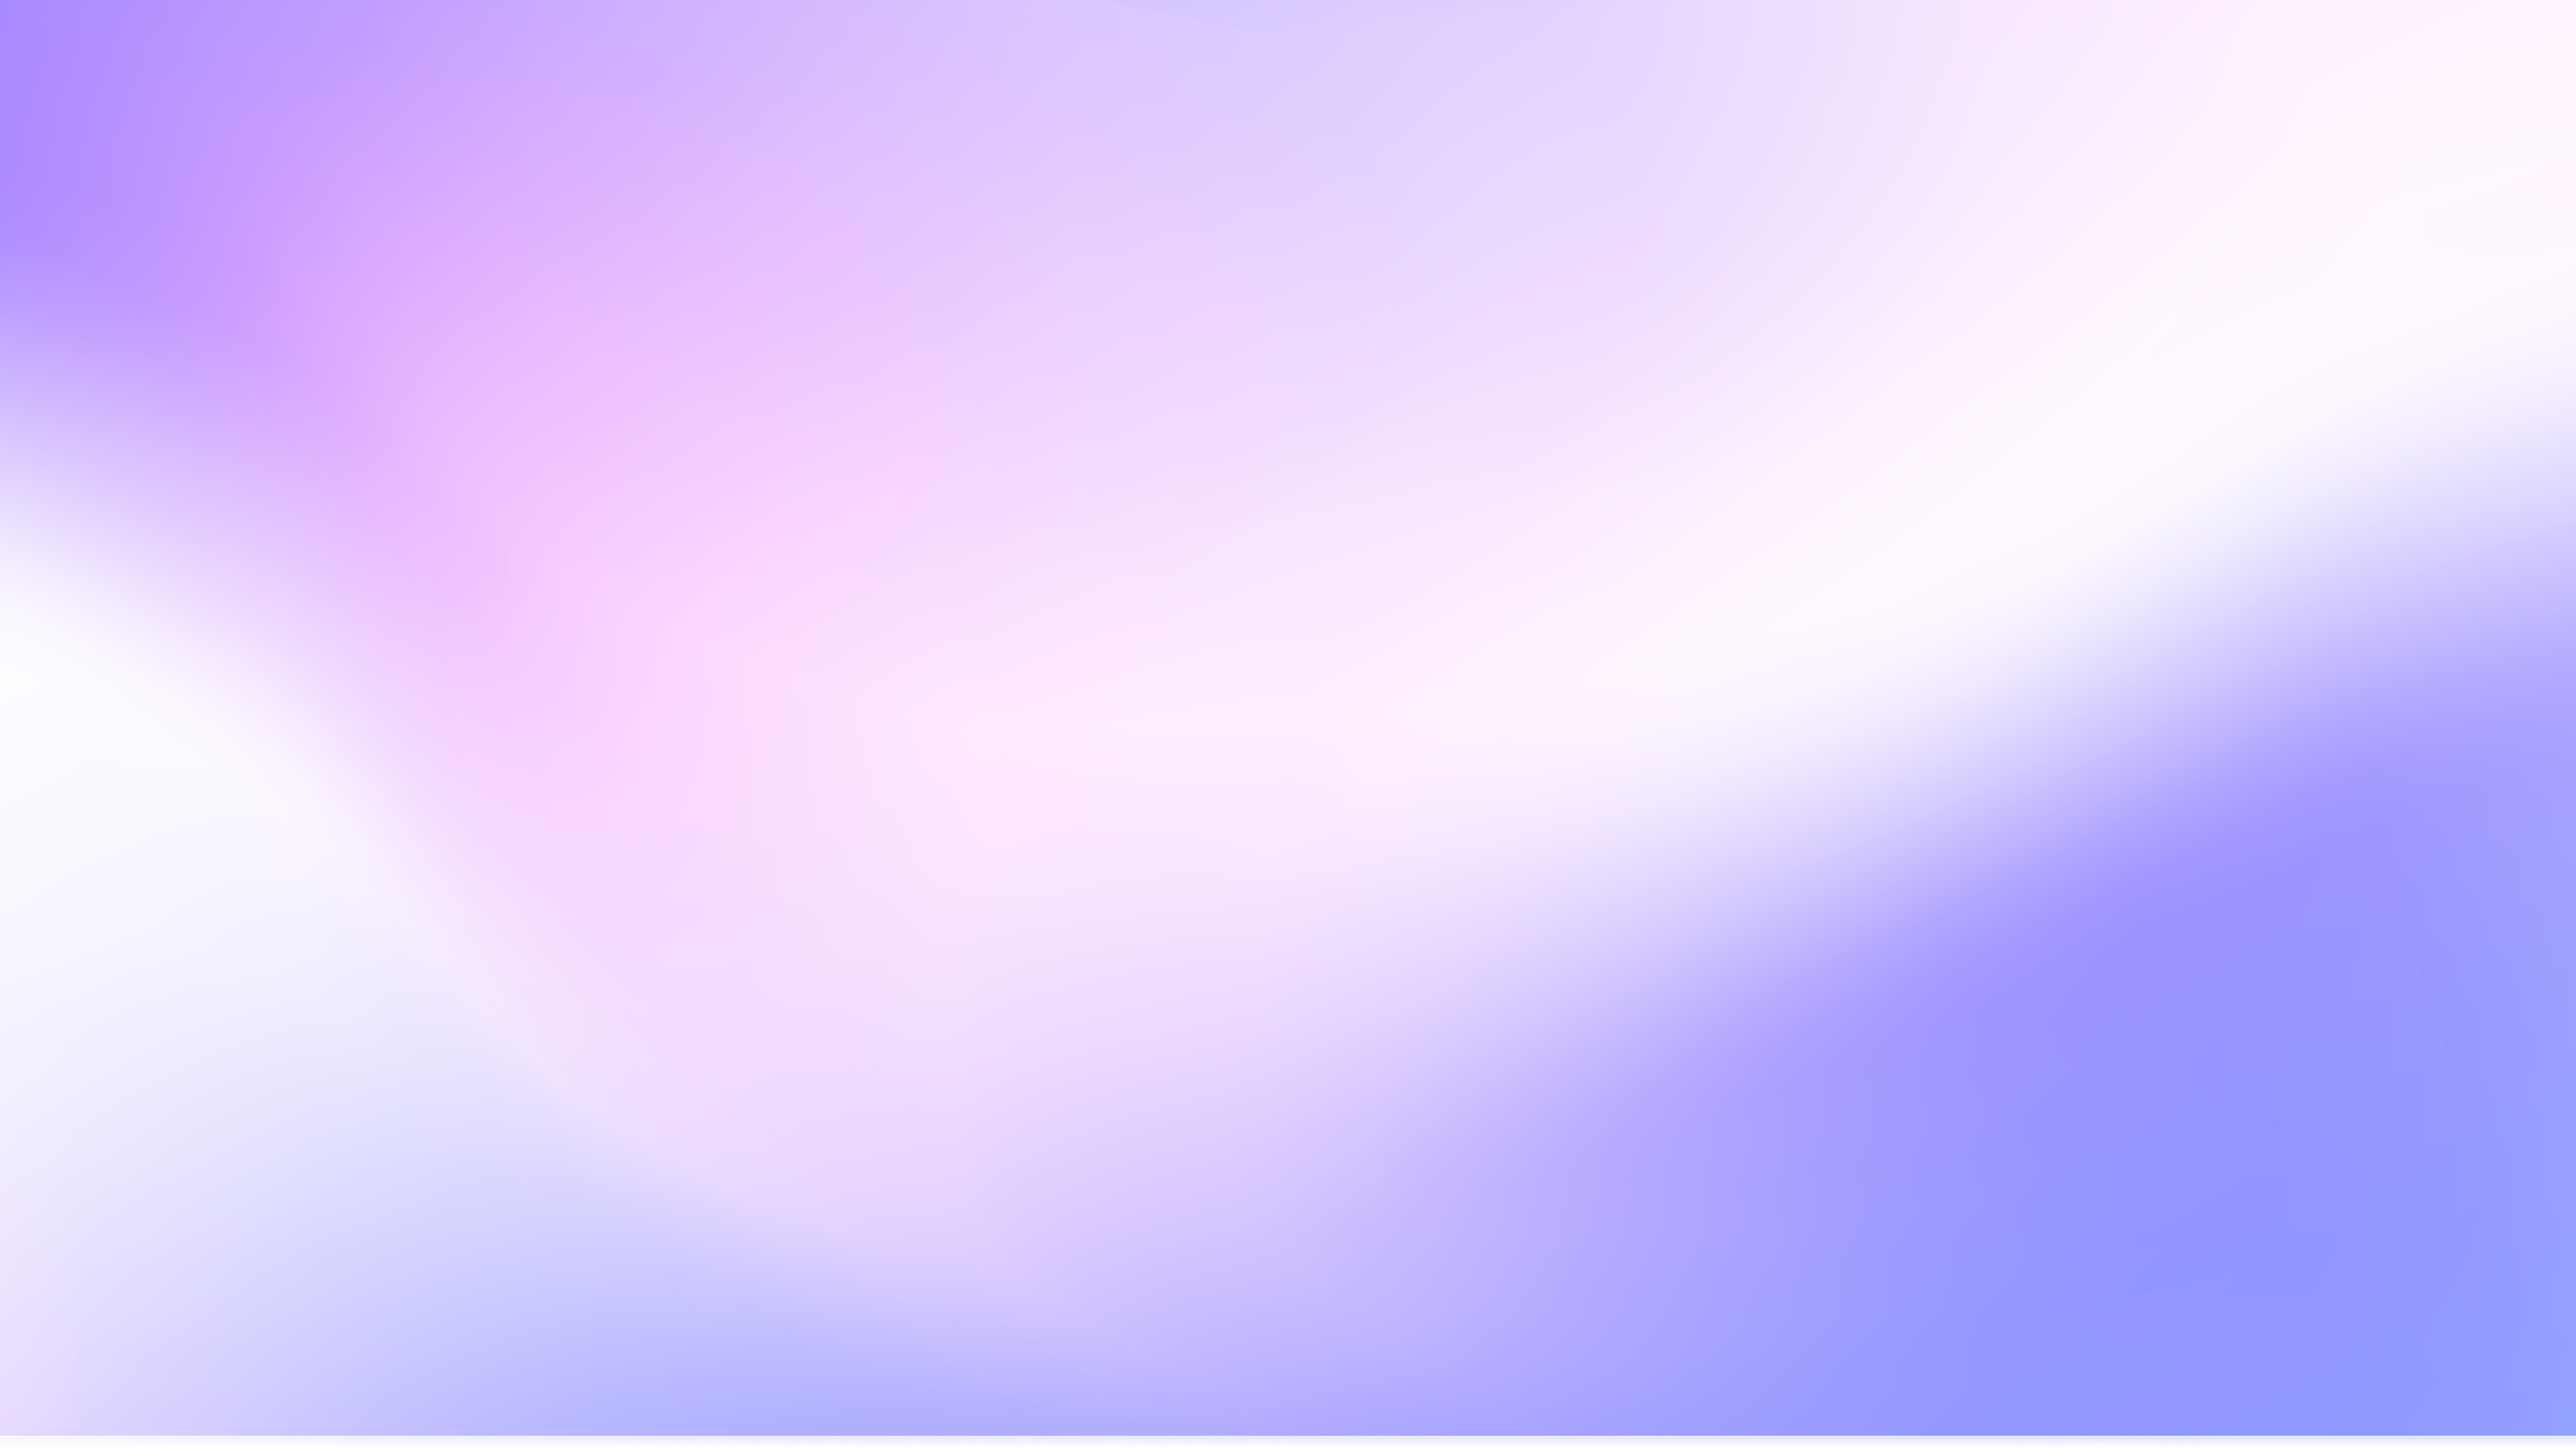
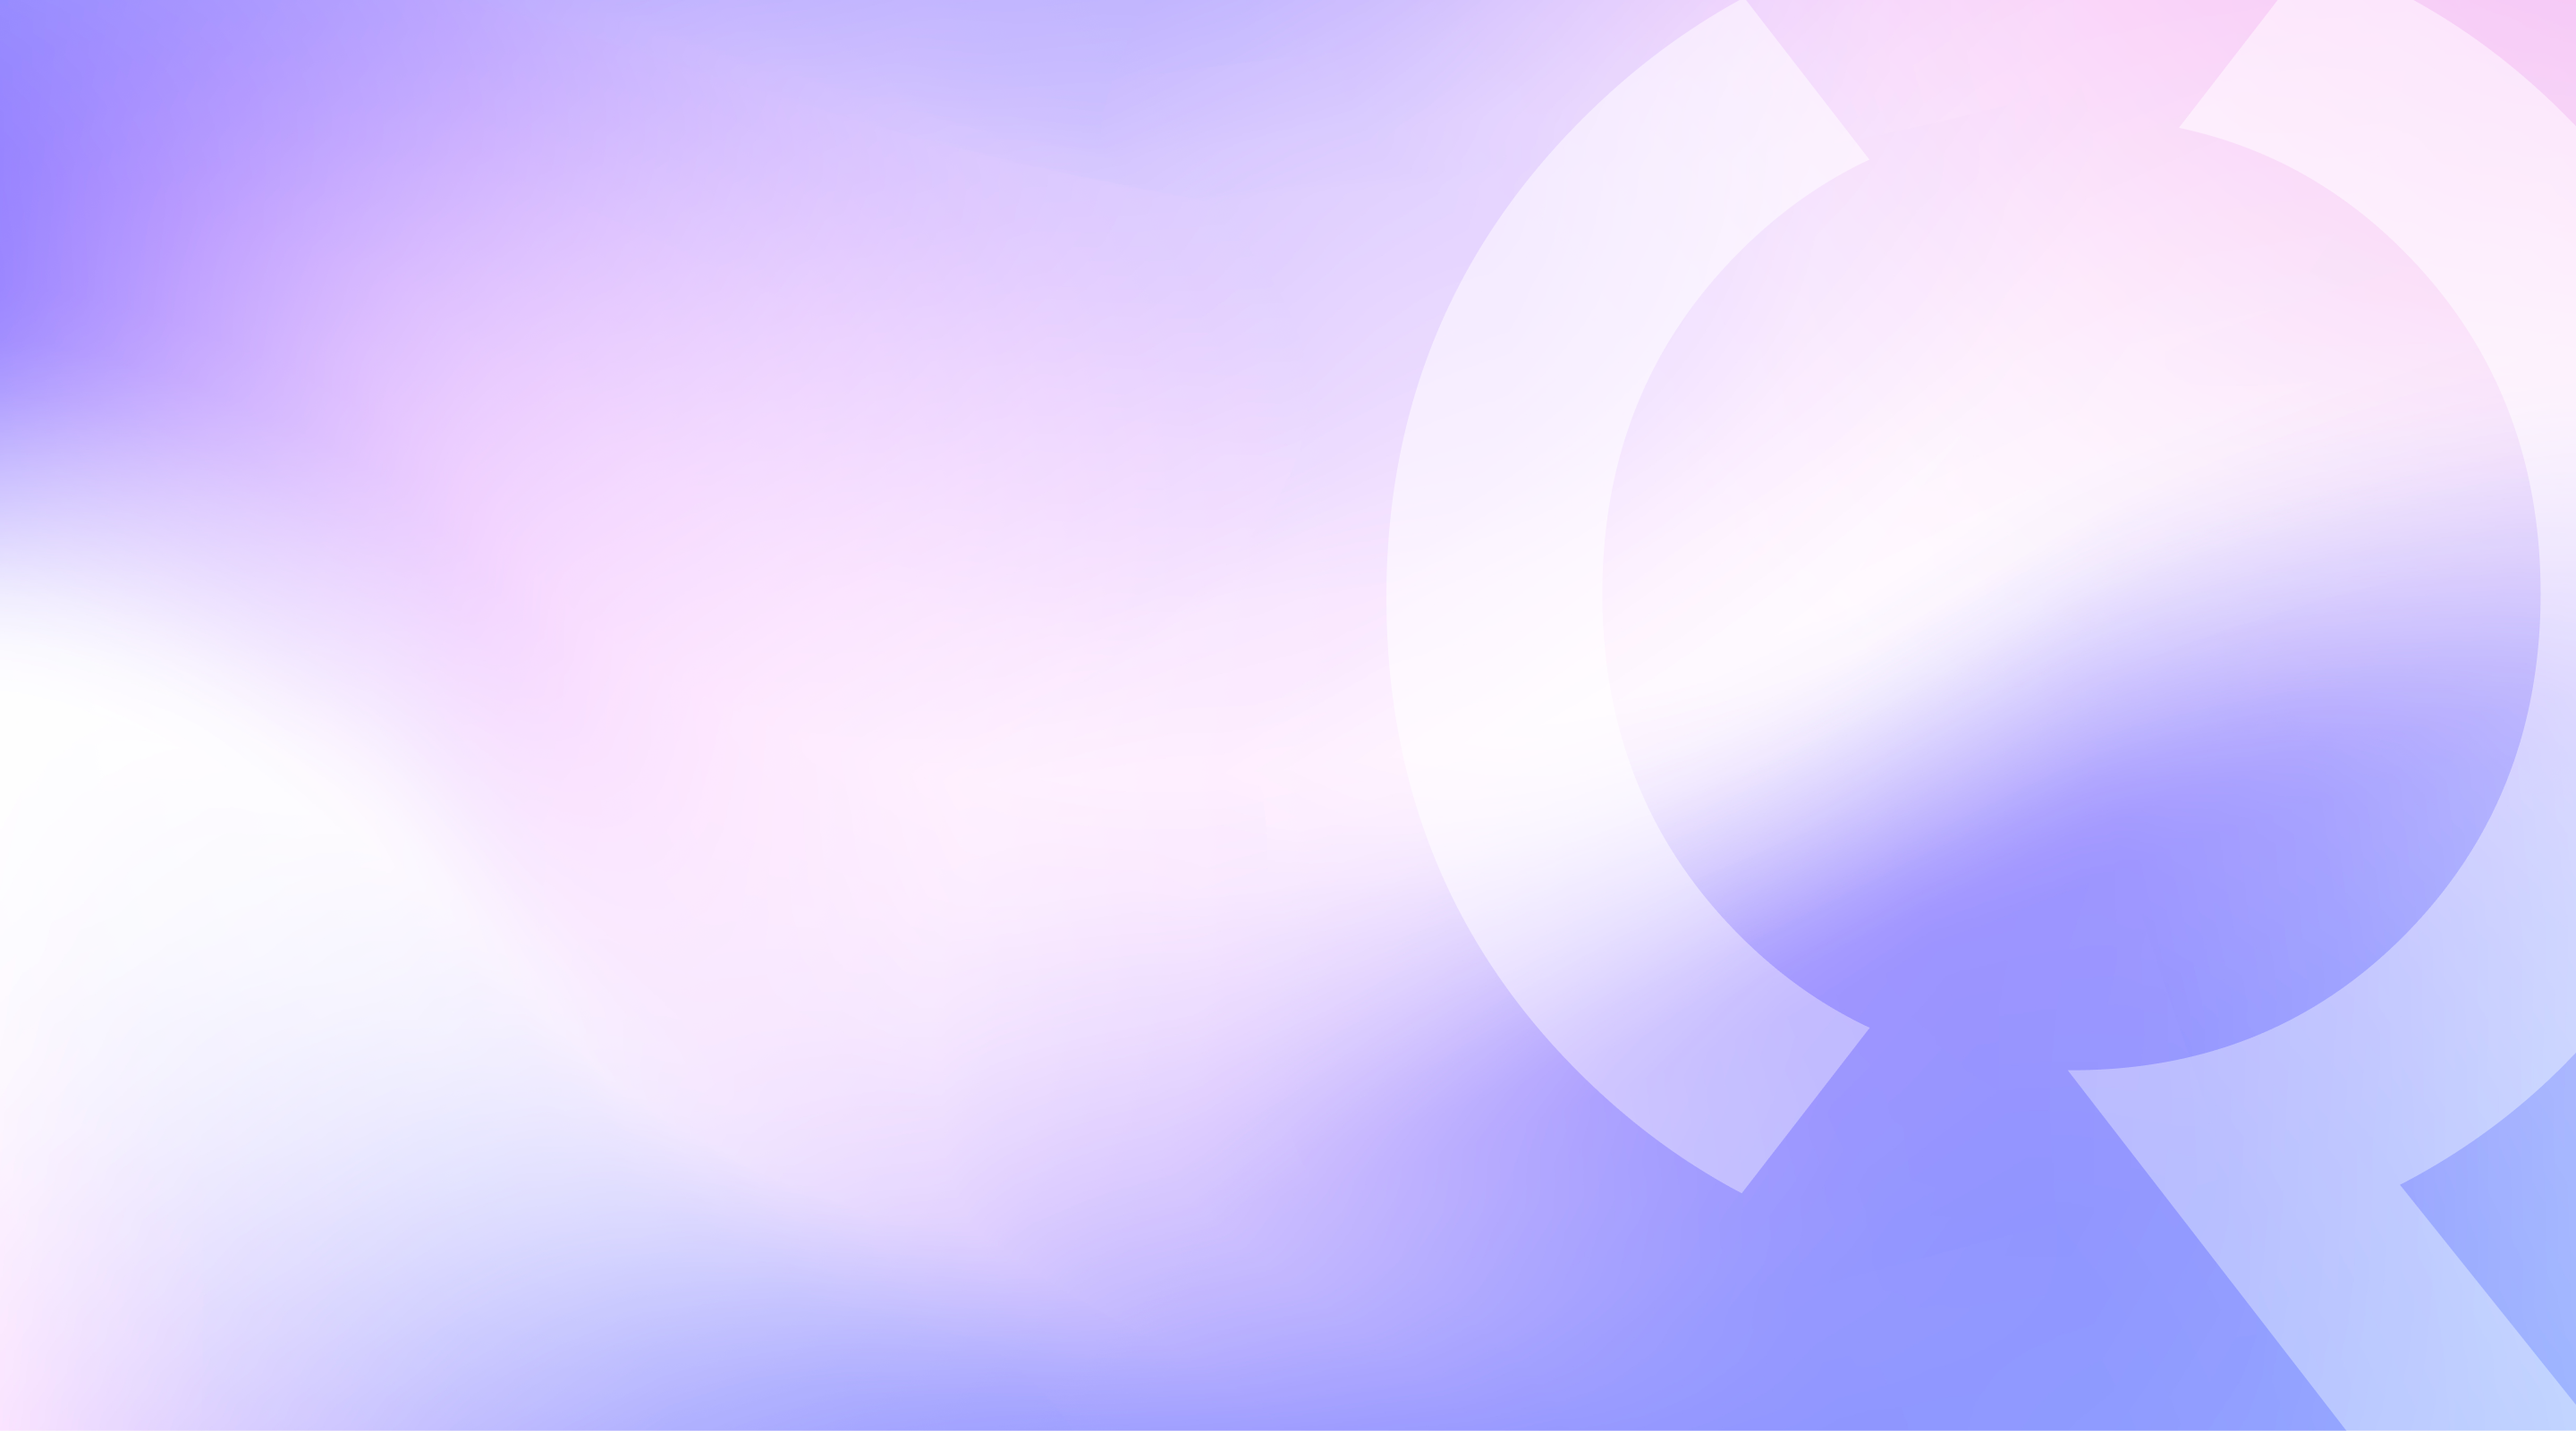
feat: replace images

diff --git a/docs/style.css b/docs/style.css
@@ -22,12 +22,11 @@ dd {
   padding-left: 1rem;
 }
 
-
 .x\:text-primary-600 {
   color: hsl(var(--nextra-primary-hue), var(--nextra-primary-saturation), 57%);
 }
 
-:is(html[class~="dark"] .x\:text-primary-600) {
+:is(html[class~='dark'] .x\:text-primary-600) {
   color: hsl(var(--nextra-primary-hue), var(--nextra-primary-saturation), 57%);
 }
 
@@ -45,12 +44,12 @@ dd {
   border-top-left-radius: var(--radius-xl);
 }
 
-:is(html[class~="dark"] .nextra-code div) {
+:is(html[class~='dark'] .nextra-code div) {
   background-color: hsl(var(--nextra-primary-hue), var(--nextra-primary-saturation), 15%);
   border-color: transparent;
 }
 
-:is(html[class~="dark"] .nextra-code pre) {
+:is(html[class~='dark'] .nextra-code pre) {
   background-color: hsl(var(--nextra-primary-hue), var(--nextra-primary-saturation), 12%);
   --tw-ring-color: transparent;
 }
@@ -66,7 +65,7 @@ dd {
   color: #4c1d95;
 }
 
-:is(html[class~="dark"] .nextra-callout.x\:dark\:border-orange-400\/30) {
+:is(html[class~='dark'] .nextra-callout.x\:dark\:border-orange-400\/30) {
   border-color: rgba(157, 108, 229, 0.3);
   background-color: rgba(157, 108, 229, 0.2);
   color: #c4b5fd;
@@ -74,23 +73,23 @@ dd {
 
 /* Nextra Tabs generates hidden h3 elements for each tab panel, which
    incorrectly increment the Steps component's counter. Prevent that. */
-.nextra-steps h3[style*="visibility:hidden"] {
+.nextra-steps h3[style*='visibility:hidden'] {
   counter-increment: var(--counter-id) 0;
 }
 
 /* Nextra component is adding the margin twice, so I cancel it here */
-[role="tabpanel"].x\:mt-6 {
+[role='tabpanel'].x\:mt-6 {
   margin-top: -1.5rem !important;
 }
 
 .gradient-bg {
-  background: #FFF;
-  background: linear-gradient(90deg,rgba(206, 182, 242, 1) 0%, rgba(255, 255, 255, 1) 20%);
+  background: #fff;
+  background: linear-gradient(90deg, rgba(206, 182, 242, 1) 0%, rgba(255, 255, 255, 1) 20%);
   min-height: 100vh;
   width: 100%;
 }
 
-:is(html[class~="dark"] .gradient-bg) {
+:is(html[class~='dark'] .gradient-bg) {
   background: #000;
   background: linear-gradient(90deg, rgba(79, 54, 115, 1) 0%, rgba(0, 0, 0, 1) 20%);
   min-height: 100vh;
@@ -99,7 +98,7 @@ dd {
 
 /* Nextra Banner Customization */
 .nextra-banner {
-  background: linear-gradient(90deg, #9d6ce5 0%,  #6428bf 100%);
+  background: linear-gradient(90deg, #9d6ce5 0%, #6428bf 100%);
   border: none;
   color: white;
   font-weight: 500;
@@ -137,7 +136,7 @@ div:has(> div > article:has(.home-page)) {
 }
 
 .badge-new::after {
-  content: "NEW";
+  content: 'NEW';
   background: var(--color-quint-purple);
   color: white;
   font-size: 0.5rem;
@@ -149,4 +148,3 @@ div:has(> div > article:has(.home-page)) {
   vertical-align: super;
   line-height: 1;
 }
-

diff --git a/docs/components/home/AuditsSection.tsx b/docs/components/home/AuditsSection.tsx
@@ -6,8 +6,8 @@ import { LinkButton } from '../LinkButton'
 export const AuditsSection = () => {
   return (
     <>
-      <section className="relative overflow-visible bg-quint-purple/10">
-        <div className="mx-auto max-w-7xl px-6 pt-25 pb-25">
+      <section className="relative bg-[url('/bg-audits.png')] bg-cover bg-center bg-no-repeat">
+        <div className="mx-auto max-w-7xl px-6 pt-30 pb-30">
           <h2 className="text-4xl sm:text-5xl md:text-[54px] leading-tight font-semibold font-[family-name:var(--font-instrument-sans)]">
             <span className="text-quint-dark">We don&apos;t just build Quint. </span>
             <span className="text-quint-purple">We use it.</span>
